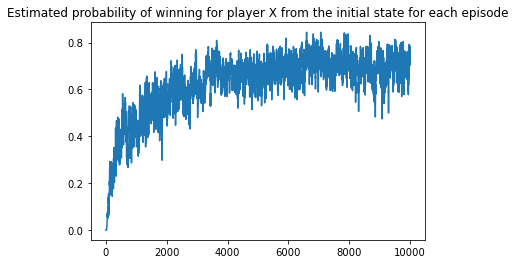
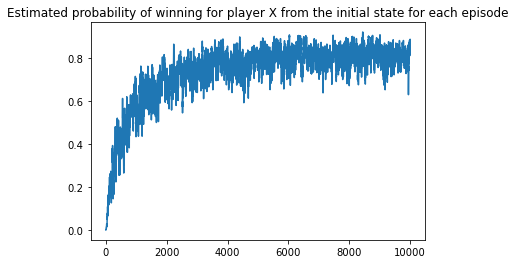
td_learning and self play codes are work in progress, does not seem to be correct currently (cannot block 2 X that are already in a row for instance)

diff --git a/examples/self_play_agent_both_sides_learning_v0.py b/examples/self_play_agent_both_sides_learning_v0.py
@@ -1,0 +1,162 @@
+# -*- coding: utf-8 -*-
+"""
+Created on Sun Sep 12 15:42:39 2021
+
+@author: Stéphane Liem Nguyen
+
+See td_learning_agent_random_opponent.py for more comments.
+Trying to apply self-play but two tables instead of one.
+"""
+
+import gym
+# For "Cannot re-register id: TicTacToe" error, can comment it if
+# no error
+env_dict = gym.envs.registration.registry.env_specs.copy()
+for env in env_dict:
+     if 'TicTacToe' in env:
+          print('Remove {} from registry'.format(env))
+          del gym.envs.registration.registry.env_specs[env]
+          
+import gym_tic_tac_toe
+import numpy as np
+import matplotlib.pyplot as plt
+import copy
+
+# This part is the same as in td_learning_agent_random_opponent.py (without comments)
+def sample_action(current_player, V, s, gamma=1, eps=0.2):
+    actions = np.arange(env.action_space.n)
+    s_nexts, rewards, _, _ = zip(*[env.simulate_one_step(s, a, current_player) for a in actions])
+    if np.random.random() < eps:
+        return np.random.choice(env.get_possible_actions())
+    else:
+        return np.argmax([reward + gamma*V[tuple(s_next)] if s[a] == 0 else -float("inf") for (s_next, reward, a) in zip(s_nexts, rewards, actions)])
+    
+def sample_greedily(current_player, V, s, gamma=1):
+    actions = np.arange(env.action_space.n)
+    s_nexts, rewards, _, _ = zip(*[env.simulate_one_step(s, a, current_player) for a in actions])
+    return np.argmax([reward + gamma*V[tuple(s_next)] if s[a] == 0 else -float("inf") for (s_next, reward, a) in zip(s_nexts, rewards, actions)])
+    
+def get_all_states(observation_space):
+    low = observation_space.low[0]
+    high = observation_space.high[0]
+    n = observation_space.low.shape[0]
+    print(f"low: {low}, high: {high}, n: {n}")
+    
+    meshgrid_tuple = np.meshgrid(*([np.arange(low, high + 1)]*n))
+    flattened_states = np.array(list(zip(*[a.flatten() for a in meshgrid_tuple])))
+    return flattened_states
+
+# ----------------------------------------
+
+env = gym.make("TicTacToe-v0")
+env.set_verbose(False)
+
+print("Observation space:", env.observation_space)
+print("Action space:", env.action_space)
+# ----------------------------------------
+
+
+# Init V1 and V2, we'll use a dictionary but each state is a tuple instead of numpy array
+V1 = {tuple(state.tolist()): 0 for state in get_all_states(env.observation_space)}
+V2 = {tuple(state.tolist()): 0 for state in get_all_states(env.observation_space)}
+    
+ALPHA = 0.1
+# One for each agent
+EPSILON_1 = 0.2
+EPSILON_2 = 0.2
+
+MAX_EPISODES = 30000 # 100000
+GAMMA = 1
+
+logs1 = []
+logs2 = []
+
+avg = 0
+for e in range(MAX_EPISODES):
+    # Fully observable environment
+    s = env.reset()
+    # for updates
+    s_old_1 = copy.deepcopy(s)
+    s_old_2 = copy.deepcopy(s)
+    
+    done = False
+    while not done:
+        current_player_before_move = env.get_current_player()
+        # Behavior policies have the tendency to explore
+        if current_player_before_move == 1:
+            a = sample_action(current_player_before_move, V1, s, gamma=GAMMA, eps=EPSILON_1)
+        else:
+            a = sample_action(current_player_before_move, V2, s, gamma=GAMMA, eps=EPSILON_2)
+            
+        s_new, r, done, info = env.step(a)
+        
+        r = (info["outcome"] == "O") + (info["outcome"] == "X")
+        # TODO: change it (what I wrote above) to something better because here
+        # it's based on the knowledge of the rewards (added this due to second agent learning)
+        
+        # update V using TD without exploratory moves
+        if current_player_before_move == 1:
+            # remove this condition and unindent the content if want to include exploratory moves
+            if sample_greedily(current_player_before_move, V1, s, gamma=GAMMA) == a:  # Note: it's a bit an approximate check for the greedy move..
+                # print(f"Before: {V1[(tuple(s_old_1))]}")    
+                V1[(tuple(s_old_1))] = V1[(tuple(s_old_1))] + ALPHA*(r + GAMMA*V1[(tuple(s_new))]-V1[(tuple(s_old_1))])
+                # print(f"After: {V1[(tuple(s_old_1))]}")    
+                EPSILON_1 *= 0.999  # /= 2
+                s_old_1 = s_new
+        elif current_player_before_move == 2:  # Exactly the same as our agent but with his V2 and s_old_2
+            # Need to minimize instead of maximize if we take r directly
+            # TODO: modify something here because it "locally" does not make sense
+            # remove this condition and unindent the content if want to include exploratory moves
+            if sample_greedily(current_player_before_move, V2, s, gamma=GAMMA) == a:
+                V2[(tuple(s_old_2))] = V2[(tuple(s_old_2))] + ALPHA*(r + GAMMA*V2[(tuple(s_new))]-V2[(tuple(s_old_2))])
+                EPSILON_2 *= 0.999  # /= 2
+                s_old_2 = s_new
+        
+        s = s_new
+        
+        # env.render()
+    avg = avg + 1/(e+1)*( (info["outcome"] == "X") - avg)
+    
+    logs1.append(V1[tuple([0]*9)])
+    logs2.append(V2[tuple([0]*9)])
+    
+print(f"% number of times the player X won (while learning): {avg}")
+
+# Plotting value of the empty board (without knowing what is the initial player)
+plt.figure()
+plt.plot(logs1, label="X")
+plt.plot(logs2, label="O")
+plt.title("Estimated probability of winning for each agent from the initial state for each episode")
+plt.legend()
+
+# Do not necessarily give the exact values..
+print(f"V1[tuple([0]*9)]: {V1[tuple([0]*9)]}\nV2[tuple([0]*9)]: {V2[tuple([0]*9)]}\n\n")
+
+# ----------------------------------------
+# Now let's use the learned value function against random policy instead !!
+avg = 0
+
+for e in range(MAX_EPISODES):
+    s = env.reset()
+    done = False
+    while not done:
+        current_player_before_move = env.get_current_player()
+        if current_player_before_move == 1:
+            a = sample_greedily(env.get_current_player(), V1, s, gamma = GAMMA)
+        else:
+            a = np.random.choice(env.get_possible_actions())
+        s_new, r, done, info = env.step(a)  # env.action_space.sample() not always permitted
+        s = s_new
+        # env.render()
+    avg = avg + 1/(e+1)*( (info["outcome"] == "X") - avg)
+    
+# print(f"The reward is: {r} and the outcome is: {info['outcome']}")
+# print(f"env.check_done_state(s_new) : {env.check_done_state(s_new)}")
+
+print(f"% number of times the player X won: {avg}")
+# TODO: Change the values below because can be outdated
+# We obtain : 0.7163600000000023 where
+# V1[tuple([0]*9)]: 0.4352624605862745
+# V2[tuple([0]*9)]: 0.5647375394137243
+
+env.close()

diff --git a/examples/td_learning_agent_random_opponent.py b/examples/td_learning_agent_random_opponent.py
@@ -6,6 +6,11 @@ Created on Sat Sep 11 20:23:06 2021
 
 Trying to apply the same update rule as in Chap 1 introduction in Sutton
 and Barto's book but without the same initial values.
+
+Moreover, we held the step-size alpha parameter constant.
+
+Default code : do not learn from exploration and experiment with
+greedy policy after learning value function.
 """
 
 import gym
@@ -33,12 +38,12 @@ def sample_action(current_player, V, s, gamma=1, eps=0.2):
     s_nexts, rewards, _, _ = zip(*[env.simulate_one_step(s, a, current_player) for a in actions])
     
     # have to convert the numpy array into tuple because of the dict
-    if np.random.random() < eps:
+    if np.random.uniform() < eps:
         return np.random.choice(env.get_possible_actions())
     else:
         return np.argmax([reward + gamma*V[tuple(s_next)] if s[a] == 0 else -float("inf") for (s_next, reward, a) in zip(s_nexts, rewards, actions)])
     
-def sample_greedily(current_player, V, s, gamma=1, eps=0.2):
+def sample_greedily(current_player, V, s, gamma=1):
     actions = np.arange(env.action_space.n)
     s_nexts, rewards, _, _ = zip(*[env.simulate_one_step(s, a, current_player) for a in actions])
     
@@ -85,11 +90,13 @@ V = {tuple(state.tolist()): 0  for state in get_all_states(env.observation_space
     
 ALPHA = 0.1
 EPSILON = 0.2
-MAX_EPISODES = 10000
+MAX_EPISODES = 30000
 GAMMA = 1  # because episodic tasks and the maximum number of steps
 # of an episode is only 9
 
 logs = []
+avgs_Vs0 = []
+avg_Vs0 = 0
 
 for e in range(MAX_EPISODES):
     # Fully observable environment
@@ -110,23 +117,28 @@ for e in range(MAX_EPISODES):
         # update V using TD without exploratory moves
         if current_player_before_move == 1:
             # remove this condition and unindent the content if want to include exploratory moves
-            if sample_greedily(env.get_current_player(), V, s, gamma = GAMMA, eps=EPSILON) == a:  # Note: it's a bit an approximate check for the greedy move..
+            if sample_greedily(current_player_before_move, V, s, gamma = GAMMA) == a:  # Note: it's a bit an approximate check for the greedy move..
                 # Uncomment this if do not want to backup the if the first player
                 # is X and previous state was directly the empty board.
                 # if first_player == 1 and np.all(s_old == 0):
                 #     continue
                 V[(tuple(s_old))] = V[(tuple(s_old))] + ALPHA*(r + GAMMA*V[(tuple(s_new))]-V[(tuple(s_old))])
-                EPSILON /= 2
+                EPSILON *= 0.999  #/= 2
                 s_old = s_new
         
         s = s_new
         
         # env.render()
+    avg_Vs0 = avg_Vs0 + 1/(e+1)*(V[tuple([0]*9)] - avg_Vs0)
     logs.append(V[tuple([0]*9)])
+    avgs_Vs0.append(avg_Vs0)
     
 # Plotting value of the empty board (without knowing what is the initial player)
-plt.plot(logs)
+plt.plot(logs, label=fr"$V(s_0)$")
 plt.title("Estimated probability of winning for player X from the initial state for each episode")
+plt.plot(avgs_Vs0, label="avg")  # TODO: Maybe use EWA
+plt.legend()
+
 # Do not necessarily give the exact values..
 print(f"V[tuple([0]*9)]: {V[tuple([0]*9)]}\n\n")
 
@@ -134,7 +146,7 @@ print(f"V[tuple([0]*9)]: {V[tuple([0]*9)]}\n\n")
 # Now let's use the learned value function
 avg = 0
 
-for e in range(10*MAX_EPISODES):
+for e in range(MAX_EPISODES):
     s = env.reset()
     done = False
     while not done:
@@ -145,17 +157,18 @@ for e in range(10*MAX_EPISODES):
             # 2. If do learn from exploration: acting eps-greedily gives the most rewards
             
             # Example:
-            # 1. V[tuple([0]*9)]: 0.7347304824736642
+            # TODO: Update these values because I'm still updating the code
+            # 1. V[tuple([0]*9)]: 0.8824902326995245
             # Average number of times the player X won (same learned value function):
-            #  -greedy: 0.7156899999999914
-            #  -eps-greedy: 0.715540000000005
+            #  -greedy: 0.7179499999999913
+            #  -eps-greedy: 0.7171300000000064
                 
             # 2. V[tuple([0]*9)]: 0.7942112886509693
             # Average number of times the player X won (same learned value function):
             #  -greedy: 0.7166800000000111
             #  -eps-greedy: 0.7180299999999962
             
-            # a = sample_greedily(env.get_current_player(), V, s, gamma = GAMMA, eps=EPSILON)
+            # a = sample_greedily(env.get_current_player(), V, s, gamma = GAMMA)
             a = sample_action(env.get_current_player(), V, s, gamma = GAMMA, eps=EPSILON)
         else:
             a = np.random.choice(env.get_possible_actions())
@@ -167,6 +180,6 @@ for e in range(10*MAX_EPISODES):
 # print(f"The reward is: {r} and the outcome is: {info['outcome']}")
 # print(f"env.check_done_state(s_new) : {env.check_done_state(s_new)}")
 
-print(f"Average number of times the player X won: {avg}")
+print(f"% number of times the player X won: {avg}")
 
 env.close()

diff --git a/examples/images/README.md b/examples/images/README.md
@@ -6,7 +6,7 @@ They show the current learned value function where learning updates occurred eit
 ## TD agent against random uniform opponent (inspired by Exercise 1.4 Learning From Exploration from Sutton and Barto's book)
 
 To learn the value function, the update rule had 0.1 as step-size parameter (but kept constant) and the undiscounted formulation of the return (discount factor/rate `gamma=1`).
-In all cases, the behavior policy has a tendency to explore and is an epsilon-greedy strategy with `eps=0.2`
+In all cases, the behavior policy has a tendency to explore and is an epsilon-greedy strategy with `eps=0.2` (decaying over time)
 
 After learning the value function by either
 1. Excluding exploratory moves
